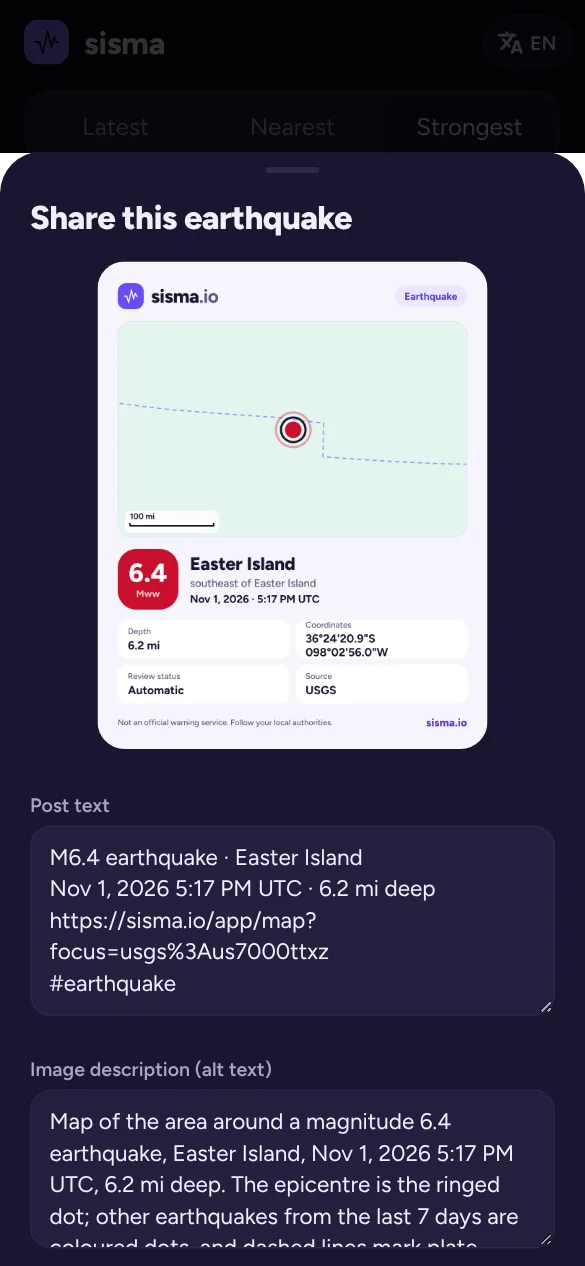
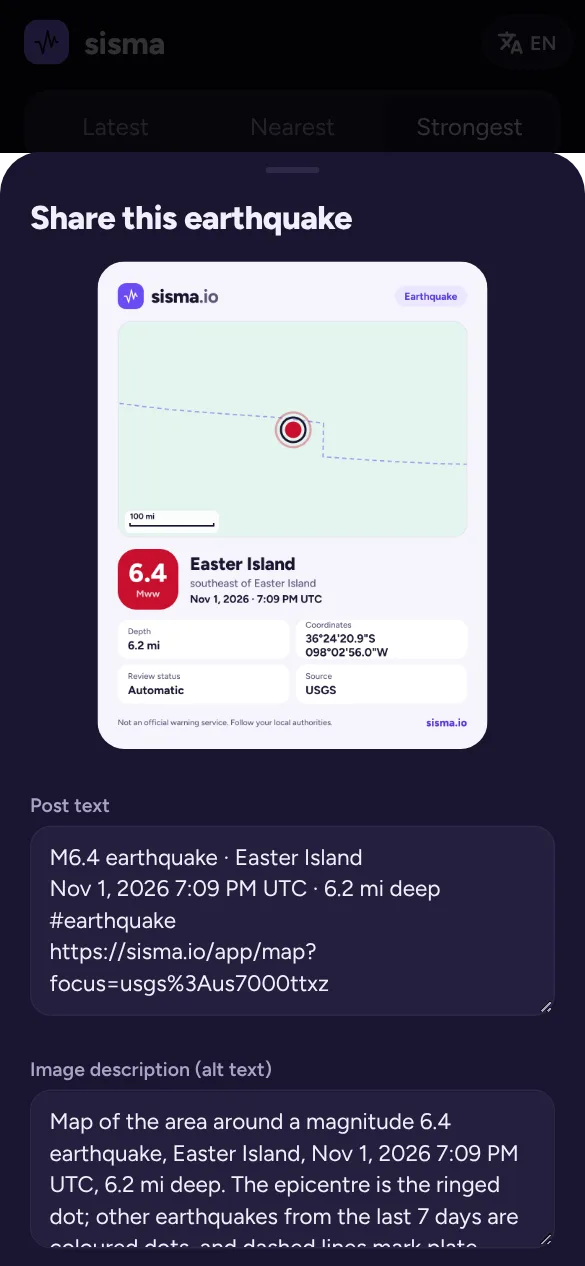
Share: close the gaps against the share-card spec
- Post text: built from translated fragments with empty ones dropped (no dangling " · "), hashtag, then the link
  last (lib/share-text.ts, unit tests).
- Card: the place name shrinks from 50 to 34 px to stay on one line, then is cut with "…"; the subtitle stays on one
  line. Long names no longer wrap to three lines.
- Share sheet: Share link (post with its link) where files can't be shared or the image failed; nothing is awaited
  before navigator.share; cancelling stays silent, other failures show a note (new keys in all 10 locales).
- Android: earlier share images are cleared from the cache before writing a new one; text-only native share.
- Help centre: Share topic updated; share screenshot retaken in both themes.

Claude-Session: https://claude.ai/code/session_01VVoEA6g7d5oSRS2St1KTEW

diff --git a/app/src/components/ShareCard.tsx b/app/src/components/ShareCard.tsx
@@ -1,7 +1,7 @@
 'use client';
 // Share sheet for an event (Android app: native share via lib/native-share.ts): previews the portrait share card (GET /api/share-card, 1080×1350 PNG), with an editable post
 // text (description, link, hashtag) and image description (alt text), and offers Share image (Web Share API with files,
-// where supported), Save image, Copy text and Copy alt text. Many apps (X, Facebook, Bluesky) drop shared text when an
+// where supported; otherwise Share link with the post), Save image, Copy text and Copy alt text. Many apps (X, Facebook, Bluesky) drop shared text when an
 // image comes with it, and none accept alt text this way, so sharing also copies the text for pasting.
 /* eslint-disable @next/next/no-img-element -- generated PNG preview */
 import { useEffect, useState } from 'react';
@@ -9,7 +9,8 @@ import { Sheet } from './Sheet';
 import { useT } from '@/i18n/I18nProvider';
 import { useUnits } from './Units';
 import type { Quake } from '@/lib/quakes/types';
-import { canShareNatively, shareFileNatively } from '@/lib/native-share';
+import { canShareNatively, shareFileNatively, shareTextNatively } from '@/lib/native-share';
+import { postWithLink } from '@/lib/share-text';
 import styles from './dash/dash.module.css';
 
 export const shareCardUrl = (id: string, locale: string, units: string, tz: string) =>
@@ -34,7 +35,9 @@ export function ShareCardSheet({ q, open, onClose, path, text, alt }: {
   const [copied, setCopied] = useState<null | 'text' | 'alt'>(null);
   // Editable drafts, started again from the defaults for each event, language and unit setting.
   const [draft, setDraft] = useState<{ key: string; text: string; alt: string } | null>(null);
-  const post = draft?.key === key ? draft : { key, text: `${text}\n${typeof location === 'undefined' ? '' : location.origin + path}\n${m.sharecard.tag}`, alt };
+  // Description, hashtag, then the link last (lib/share-text.ts).
+  const post = draft?.key === key ? draft : { key, text: postWithLink(text, typeof location === 'undefined' ? '' : location.origin + path, m.sharecard.tag), alt };
+  const [note, setNote] = useState<string | null>(null);
   const edit = (patch: Partial<{ text: string; alt: string }>) => setDraft({ ...post, ...patch });
 
   useEffect(() => {
@@ -56,6 +59,10 @@ export function ShareCardSheet({ q, open, onClose, path, text, alt }: {
   // Android app: native share sheet (lib/native-share.ts); browsers: Web Share API with files, where supported.
   const native = canShareNatively();
   const canShareFile = state.s === 'ready' && (native || (typeof navigator !== 'undefined' && !!navigator.canShare?.({ files: [state.file] })));
+  // Where files can't be shared (or the image failed), share the post with its link instead.
+  const canShareLink = !canShareFile && state.s !== 'loading' && (native || (typeof navigator !== 'undefined' && !!navigator.share));
+  // Closing the share menu is not an error; anything else shows a short note.
+  const failed = (e: unknown) => { if ((e as Error)?.name !== 'AbortError') setNote(m.sharecard.share_failed); };
 
   const copy = async (what: 'text' | 'alt') => {
     try {
@@ -70,8 +77,15 @@ export function ShareCardSheet({ q, open, onClose, path, text, alt }: {
     if (state.s !== 'ready') return;
     // Copy first: the receiving app may ignore the text that comes with the image.
     navigator.clipboard?.writeText(post.text).then(() => setCopied('text'), () => {});
-    if (native) { await shareFileNatively(state.file, post.text, m.sharecard.title); return; }
-    try { await navigator.share({ files: [state.file], title: 'sisma', text: post.text }); } catch { /* cancelled */ }
+    // Nothing is awaited before navigator.share: Safari opens the share menu only straight from the tap.
+    setNote(null);
+    if (native) { if (await shareFileNatively(state.file, post.text, m.sharecard.title) === 'failed') setNote(m.sharecard.share_failed); return; }
+    try { await navigator.share({ files: [state.file], title: 'sisma', text: post.text }); } catch (e) { failed(e); }
+  };
+  const shareLink = async () => {
+    setNote(null);
+    if (native) { if (await shareTextNatively(post.text, m.sharecard.title) === 'failed') setNote(m.sharecard.share_failed); return; }
+    try { await navigator.share({ title: 'sisma', text: post.text }); } catch (e) { failed(e); }
   };
   const saveImage = () => {
     if (state.s !== 'ready') return;
@@ -100,6 +114,11 @@ export function ShareCardSheet({ q, open, onClose, path, text, alt }: {
             <span className="ms" aria-hidden="true">ios_share</span>{m.sharecard.share_image}
           </button>
         )}
+        {canShareLink && (
+          <button type="button" className={styles.sharePrimary} onClick={shareLink}>
+            <span className="ms" aria-hidden="true">share</span>{m.sharecard.share_link}
+          </button>
+        )}
         <button type="button" className={styles.regionBtn} onClick={saveImage} disabled={state.s !== 'ready'}>
           <span className="ms" aria-hidden="true">download</span>{m.sharecard.save_image}
         </button>
@@ -110,6 +129,7 @@ export function ShareCardSheet({ q, open, onClose, path, text, alt }: {
           <span className="ms" aria-hidden="true">{copied === 'alt' ? 'check' : 'content_copy'}</span>{copied === 'alt' ? m.sharecard.copied : m.sharecard.copy_alt}
         </button>
       </div>
+      {note && <p className={styles.shareHint} role="alert">{note}</p>}
       <p className={styles.shareHint}>{m.sharecard.hint}</p>
     </Sheet>
   );

diff --git a/app/src/lib/share-text.ts b/app/src/lib/share-text.ts
@@ -1,0 +1,49 @@
+// Text for sharing an earthquake: the post that goes with the share card, and fitting the card's headline on one line.
+// Pure functions (no DOM), used by the share sheet (components/ShareCard.tsx), the event detail and the server-drawn
+// card (lib/share-card.tsx).
+
+/**
+ * Fills a translated post template such as "M{mag} earthquake · {place}\n{when} · {depth} deep". Each line is split
+ * into fragments on " · "; a fragment whose placeholders are all empty is left out, as are lines with nothing left, so
+ * the post never shows "undefined", a dangling " · " or an empty line.
+ */
+export function fillPost(template: string, values: Record<string, string | number | null | undefined>): string {
+  const val = (k: string) => { const v = values[k]; return v === null || v === undefined ? '' : String(v).trim(); };
+  return template.split('\n').map(line => line.split(' · ').map(frag => {
+    const keys = [...frag.matchAll(/\{(\w+)\}/g)].map(x => x[1]);
+    if (keys.length && keys.every(k => !val(k))) return '';
+    return frag.replace(/\{(\w+)\}/g, (_, k: string) => val(k)).trim();
+  }).filter(Boolean).join(' · ')).filter(Boolean).join('\n');
+}
+
+/** The full post: the description, then the hashtag, then the link last (on its own line). Empty parts are left out. */
+export const postWithLink = (text: string, url: string, tag?: string) =>
+  [text.trim(), tag?.trim(), url.trim()].filter(Boolean).join('\n');
+
+/** Rough width of `text` in em for a bold Latin sans (Figtree 800), wide enough to be safe; CJK counts 1 em. */
+export function emWidth(text: string): number {
+  let w = 0;
+  for (const ch of text) {
+    if (/[⺀-鿿가-힯豈-﫿＀-￯]/.test(ch)) w += 1;
+    else if (/\s/.test(ch)) w += 0.26;
+    else if (/[.,:;'’!|ilIj()-]/.test(ch)) w += 0.32;
+    else if (/[MWmw]/.test(ch)) w += 0.84;
+    else if (/[A-Z0-9]/.test(ch)) w += 0.66;
+    else w += 0.56;
+  }
+  return w;
+}
+
+/**
+ * Fits one line of text into `maxWidth` px: steps the font size down from `size` by 2 px until it fits, no lower than
+ * `min`; if it still doesn't fit at `min`, cuts it at a word (or character) and adds "…".
+ */
+export function fitLine(text: string, { maxWidth, size, min }: { maxWidth: number; size: number; min: number }): { text: string; size: number } {
+  const t = text.trim();
+  for (let s = size; s >= min; s -= 2) if (emWidth(t) * s <= maxWidth) return { text: t, size: s };
+  const room = maxWidth / min - emWidth('…');
+  let cut = '';
+  for (const ch of t) { if (emWidth(cut + ch) > room) break; cut += ch; }
+  const word = cut.replace(/\s+\S*$/, '');
+  return { text: `${(word.length >= cut.length * 0.6 ? word : cut).replace(/[\s,·-]+$/, '')}…`, size: min };
+}

diff --git a/app/src/lib/share-text.test.ts b/app/src/lib/share-text.test.ts
@@ -1,0 +1,57 @@
+import { describe, expect, it } from 'vitest';
+import { emWidth, fillPost, fitLine, postWithLink } from './share-text';
+
+const T = 'M{mag} earthquake · {place}\n{when} · {depth} deep';
+
+describe('fillPost', () => {
+  it('fills every placeholder', () => {
+    expect(fillPost(T, { mag: '6.4', place: 'Easter Island', when: 'Nov 1, 2026 5:39 PM', depth: '10 km' }))
+      .toBe('M6.4 earthquake · Easter Island\nNov 1, 2026 5:39 PM · 10 km deep');
+  });
+  it('drops fragments whose values are empty, with no dangling separator', () => {
+    expect(fillPost(T, { mag: '5.0', place: '', when: 'Nov 1', depth: undefined }))
+      .toBe('M5.0 earthquake\nNov 1');
+  });
+  it('drops a line with nothing left and never prints undefined or null', () => {
+    const out = fillPost(T, { mag: '5.0', place: null });
+    expect(out).toBe('M5.0 earthquake');
+    expect(out).not.toMatch(/undefined|null| · $|\n$/);
+  });
+  it('keeps fragments without placeholders', () => {
+    expect(fillPost('{a} · shared from sisma', { a: '' })).toBe('shared from sisma');
+  });
+});
+
+describe('postWithLink', () => {
+  it('puts the link last, after the hashtag', () => {
+    expect(postWithLink('M6.4 earthquake', 'https://sisma.io/app/map?focus=x', '#earthquake'))
+      .toBe('M6.4 earthquake\n#earthquake\nhttps://sisma.io/app/map?focus=x');
+  });
+  it('leaves out empty parts', () => {
+    expect(postWithLink('  M6.4  ', 'https://sisma.io', '')).toBe('M6.4\nhttps://sisma.io');
+    expect(postWithLink('', 'https://sisma.io')).toBe('https://sisma.io');
+  });
+});
+
+describe('fitLine', () => {
+  it('keeps the design size when the text fits', () => {
+    expect(fitLine('Japan', { maxWidth: 600, size: 50, min: 34 })).toEqual({ text: 'Japan', size: 50 });
+  });
+  it('shrinks a long name until it fits', () => {
+    const r = fitLine('Near The Coast Of Western Turkey', { maxWidth: 600, size: 50, min: 34 });
+    expect(r.size).toBeLessThan(50);
+    expect(r.size).toBeGreaterThanOrEqual(34);
+    expect(r.text).toBe('Near The Coast Of Western Turkey');
+    expect(emWidth(r.text) * r.size).toBeLessThanOrEqual(600);
+  });
+  it('cuts at a word and adds an ellipsis when even the smallest size is too wide', () => {
+    const r = fitLine('South Sandwich Islands Region And Bouvet Island Area', { maxWidth: 500, size: 50, min: 34 });
+    expect(r.size).toBe(34);
+    expect(r.text.endsWith('…')).toBe(true);
+    expect(r.text).not.toMatch(/\s…$/);
+    expect(emWidth(r.text) * 34).toBeLessThanOrEqual(500);
+  });
+  it('counts CJK characters as full width', () => {
+    expect(emWidth('日本')).toBe(2);
+  });
+});

diff --git a/app/src/lib/share-card.tsx b/app/src/lib/share-card.tsx
@@ -12,6 +12,7 @@ import { formatDms } from '@/lib/geo';
 import { convertKmInText, KM_PER_MI, type Units } from '@/lib/units';
 import { EARTHQUAKE_PATH } from '@/components/logo-path';
 import { asLocale, serverMessages as messages } from '@/i18n/server';
+import { fitLine } from './share-text';
 const W = 1080, H = 1350, PAD = 56, MAP_W = W - PAD * 2, MAP_H = 600;
 const SPAN = 7.5;
 const C = THEME.light;
@@ -86,6 +87,11 @@ export async function shareCardResponse({ q, all, locale, units, tz, origin }: S
   // Some sources give the same text for the place and the region (e.g. "Fiji region" twice): show it once.
   const same = (a: string, b: string) => a.trim().toLocaleLowerCase('en') === b.trim().toLocaleLowerCase('en');
   const subtitle = title && !same(title, q.region) ? title : null;
+  // Text column beside the 168 px badge (32 px gap), less the flag (48 px + 16 px gap): the place shrinks to fit one
+  // line (50 → 34 px), then is cut with "…"; the subtitle stays one line at 30 px.
+  const colW = MAP_W - 168 - 32;
+  const head = fitLine(q.region, { maxWidth: colW - (flag ? 64 : 0), size: 50, min: 34 });
+  const sub = subtitle ? fitLine(subtitle, { maxWidth: colW, size: 30, min: 30 }) : null;
   // Badge in the light pin colours, like the card's map and the app's light mode.
   const mc = { fill: MAG_MARKER_LIGHT[magIndex(q.mag)], text: MAG_INK_LIGHT[magIndex(q.mag)] };
   const stats: [string, string][] = [[m.depth, depth], [m.coords, formatDms(q.lat, q.lon)], [m.review_status, status], [m.source, source]];
@@ -133,9 +139,9 @@ export async function shareCardResponse({ q, all, locale, units, tz, origin }: S
           <div style={{ display: 'flex', flexDirection: 'column', gap: 8, minWidth: 0, flex: 1 }}>
             <div style={{ display: 'flex', alignItems: 'center', gap: 16 }}>
               {flag && <img src={flag} width={48} height={48} style={{ borderRadius: 24 }} alt="" />}
-              <div style={{ display: 'flex', fontSize: 50, fontWeight: 800, lineHeight: 1.1, letterSpacing: '-0.01em' }}>{q.region}</div>
+              <div style={{ display: 'flex', fontSize: head.size, fontWeight: 800, lineHeight: 1.1, letterSpacing: '-0.01em', whiteSpace: 'nowrap' }}>{head.text}</div>
             </div>
-            {subtitle && <div style={{ display: 'flex', fontSize: 30, fontWeight: 500, color: C.ink2 }}>{subtitle}</div>}
+            {sub && <div style={{ display: 'flex', fontSize: sub.size, fontWeight: 500, color: C.ink2, whiteSpace: 'nowrap' }}>{sub.text}</div>}
             <div style={{ display: 'flex', fontSize: 30, fontWeight: 700 }}>{date} · {time}</div>
           </div>
         </div>

diff --git a/app/src/lib/native-share.ts b/app/src/lib/native-share.ts
@@ -2,7 +2,10 @@
 // card is written to the app's cache folder and handed to the system share sheet. App versions without the plugins
 // fall back to the web behaviour (Save image and Copy text only).
 interface SharePlugin { share(o: { title?: string; text?: string; files?: string[]; dialogTitle?: string }): Promise<unknown> }
-interface FilesystemPlugin { writeFile(o: { path: string; data: string; directory: string; recursive?: boolean }): Promise<{ uri: string }> }
+interface FilesystemPlugin {
+  writeFile(o: { path: string; data: string; directory: string; recursive?: boolean }): Promise<{ uri: string }>;
+  rmdir?(o: { path: string; directory: string; recursive?: boolean }): Promise<void>;
+}
 interface Cap { isNativePlatform?: () => boolean; Plugins?: { Share?: SharePlugin; Filesystem?: FilesystemPlugin } }
 
 function plugins() {
@@ -27,8 +30,22 @@ export async function shareFileNatively(file: File, text: string, dialogTitle: s
   const p = plugins();
   if (!p) return 'failed';
   try {
+    // Clear earlier share images first, so they don't pile up in the cache folder.
+    try { await p.fs.rmdir?.({ path: 'share', directory: 'CACHE', recursive: true }); } catch { /* nothing to clear */ }
     const { uri } = await p.fs.writeFile({ path: `share/${file.name}`, data: await base64(file), directory: 'CACHE', recursive: true });
     await p.share.share({ title: 'sisma', text, files: [uri], dialogTitle });
+    return 'shared';
+  } catch (e) {
+    return /cancel/i.test(String((e as Error)?.message ?? e)) ? 'cancelled' : 'failed';
+  }
+}
+
+/** Opens the Android share sheet with text only (the post and its link), when there is no image to share. */
+export async function shareTextNatively(text: string, dialogTitle: string): Promise<'shared' | 'cancelled' | 'failed'> {
+  const p = plugins();
+  if (!p) return 'failed';
+  try {
+    await p.share.share({ title: 'sisma', text, dialogTitle });
     return 'shared';
   } catch (e) {
     return /cancel/i.test(String((e as Error)?.message ?? e)) ? 'cancelled' : 'failed';

diff --git a/app/src/app/help/topics.tsx b/app/src/app/help/topics.tsx
@@ -213,9 +213,9 @@ export const TOPICS: Topic[] = [
         <div>
           <p>Tap <Ui>Share</Ui> on an earthquake to make a share card: a picture with the map and the main details.</p>
           <ul>
-            <li><strong>Post text</strong> is filled in for you (magnitude, place, time, depth, a link and a hashtag), and you can edit it.</li>
+            <li><strong>Post text</strong> is filled in for you (magnitude, place, time, depth and a hashtag, with the link last), and you can edit it.</li>
             <li><strong>Image description (alt text)</strong> describes the picture for people using screen readers. It is filled in for you, and you can edit it.</li>
-            <li><Ui>Share image</Ui> opens your phone’s share sheet (in the Android app and in browsers that support it). <Ui>Save image</Ui> downloads it, and <Ui>Copy text</Ui> and <Ui>Copy alt text</Ui> copy either field.</li>
+            <li><Ui>Share image</Ui> opens your phone’s share sheet (in the Android app and in browsers that support it). Where a browser can’t share pictures, or the picture couldn’t be made, <Ui>Share link</Ui> shares the post text with its link instead. <Ui>Save image</Ui> downloads the picture, and <Ui>Copy text</Ui> and <Ui>Copy alt text</Ui> copy either field.</li>
           </ul>
           <Callout><p>X, Facebook and Bluesky often drop the text that comes with a shared picture, and none of them take alt text this way. <strong>Share image also copies the text</strong>, so you can paste it into the post. Use <Ui>Copy alt text</Ui> and paste it into the app’s image description field.</p></Callout>
         </div>

diff --git a/app/src/components/QuakeDetail.tsx b/app/src/components/QuakeDetail.tsx
@@ -14,6 +14,7 @@ import type { Row } from './QuakeData';
 import { useDistance } from './Units';
 import { ShareCardSheet } from './ShareCard';
 import styles from './dash/dash.module.css';
+import { fillPost } from '@/lib/share-text';
 
 /** Map URL that zooms to a quake and shows its felt reports. */
 export const regionHref = (id: string) => '/app/map?focus=' + encodeURIComponent(id);
@@ -78,8 +79,9 @@ export function QuakeDetail({ q, onClose, onShowRegion }: { q: Row; onClose?: ()
   const reports = useFeltCells(q.id);
   const feltTotal = reports.total + (q.felt ?? 0);
   // Share defaults (editable in the share sheet): a short description and the image description.
-  const fill = (s: string) => s.replace(/\{(\w+)\}/g, (_, k: string) => ({ mag: q.mag.toFixed(1), place: q.region, when: `${date} ${time}`, depth: u.depth(q.depthKm) })[k] ?? '');
-  const shareText = fill(m.sharecard.post), shareAlt = fill(m.sharecard.alt_text);
+  // Empty values drop their fragment from the post (lib/share-text.ts fillPost).
+  const vals = { mag: q.mag.toFixed(1), place: q.region, when: `${date} ${time}`.trim(), depth: u.depth(q.depthKm) };
+  const shareText = fillPost(m.sharecard.post, vals), shareAlt = m.sharecard.alt_text.replace(/\{(\w+)\}/g, (_, k: string) => vals[k as keyof typeof vals] ?? '');
 
   return (
     <>

diff --git a/CLAUDE.md b/CLAUDE.md
@@ -36,7 +36,9 @@ Rename app/src/app/app/science/-slug-/ to app/src/app/app/science/[slug]/ (the e
    choosing a world region zooms the map (lib/world-regions.ts REGION_VIEW) and turns the Globe to face it
    Region view (/app/map?focus=<id>): ~7.5° across the shorter side, pulsing focus marker, callouts for nearby events,
    1:50m coastlines when zoomed in. Share = portrait PNG card from GET /api/share-card (lib/share-map.ts, components/ShareCard.tsx) with editable post
-   text + alt text; Android app shares through the system sheet (@capacitor/share + filesystem, lib/native-share.ts)
+   text + alt text (lib/share-text.ts: post built from fragments, empty ones dropped, link last; card headline shrinks to one
+   line); Share link fallback where files can't be shared; Android app shares through the system sheet (@capacitor/share +
+   filesystem, lib/native-share.ts)
    Street level: OpenStreetMap tiles fade in from web zoom 6.5–7.5 up to 18 (lib/tiles.ts; NEXT_PUBLIC_STREET_TILES=off
    disables; docs/maps-setup.md for the OSM tile policy). Events are drop pins of one size in screen pixels, filled by
    band (--mag-0…5: MAG_MARKER_LIGHT in light mode, MAG_SCALE in dark) with the magnitude in the head (--mag-ink-N);
